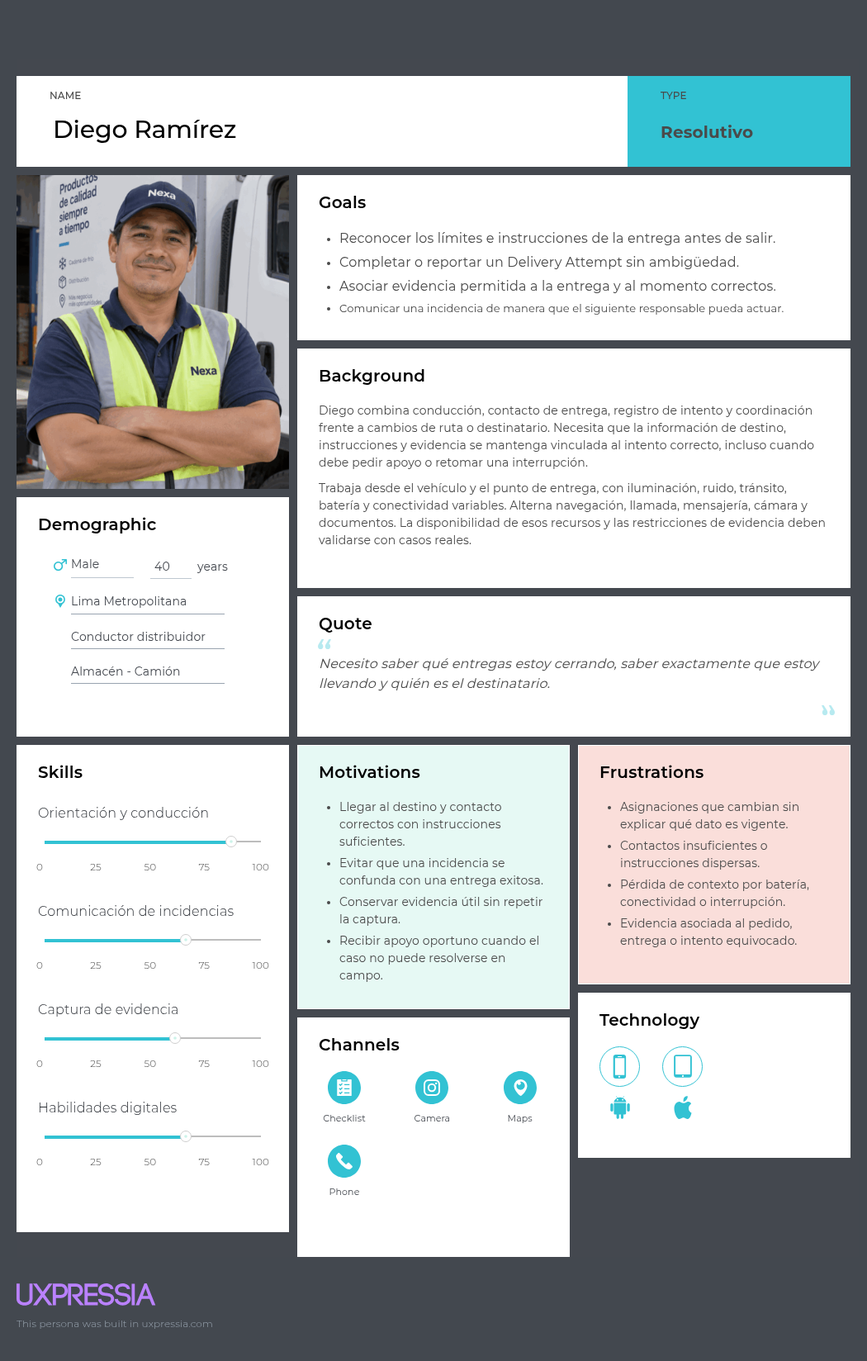
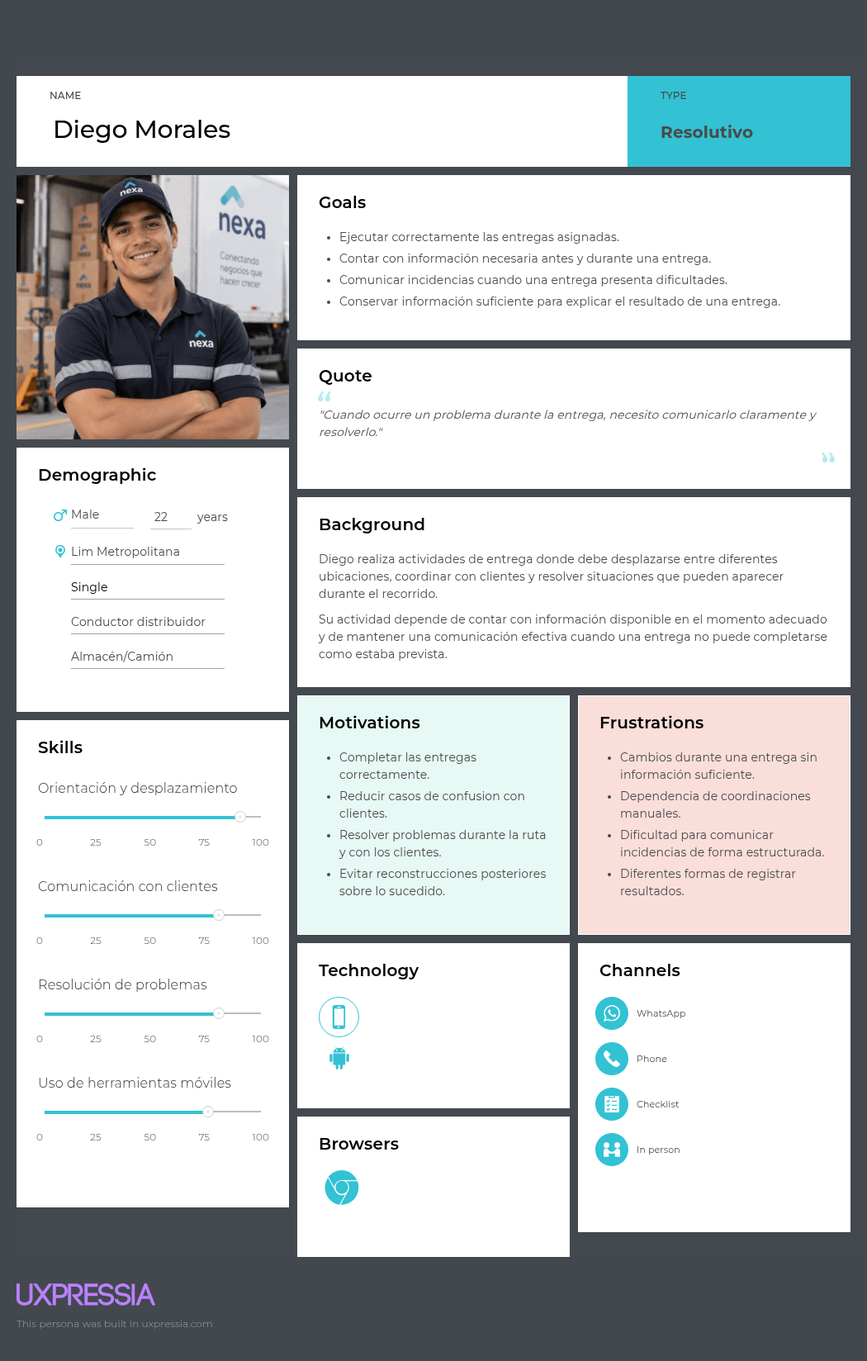
docs(ch-02): integrate updated needfinding artifacts

diff --git a/report/02-requirements-and-software-solution-design/2.3-needfinding/2.3.1-user-personas.md b/report/02-requirements-and-software-solution-design/2.3-needfinding/2.3.1-user-personas.md
@@ -1,104 +1,73 @@
 ## 2.3. Needfinding
 
+La construcción de este bloque parte de tres insumos previos. El primero es el análisis de entrevistas de la sección 2.2, que identifica patrones de comportamiento, fricciones recurrentes y expectativas de adopción. El segundo es el análisis competitivo de la sección 2.1, que muestra que las soluciones existentes resuelven fragmentos del problema, pero no articulan con suficiente claridad la continuidad entre captura comercial, abastecimiento del cliente y cierre de entrega. El tercero es la lógica del dominio modelada en el proyecto, donde cada segmento interviene en un momento distinto del flujo.
+
+Los artefactos de needfinding traducen evidencia cualitativa en criterios de diseño: quién necesita autonomía, quién necesita visibilidad, quién necesita rapidez, quién necesita trazabilidad y en qué punto del recorrido cada necesidad se vuelve más sensible.
+
 ### 2.3.1. User Personas
 
-Las tres User Personas son arquetipos sintéticos informados por patrones
-recurrentes del Interview Analysis (2.2.3) y por el contexto competitivo de
-2.1. No representan entrevistados, promedios estadísticos, perfiles de
-autorización ni entidades de dominio. Su función es mantener visibles las
-necesidades y condiciones de trabajo de los segmentos sin convertirlas en una
-validación de solución.
+Las tres User Personas presentadas en esta sección fueron elaboradas a partir de los patrones identificados en el análisis de entrevistas. Su construcción busca representar comportamientos, objetivos, motivaciones, frustraciones y condiciones de uso relevantes para el diseño de Nexa Mobile sin convertir características particulares de un entrevistado en propiedades generales del segmento. Los nombres y perfiles utilizados son ficticios y funcionan como **arquetipos de diseño**; no representan participantes reales ni promedios estadísticos de la muestra.
 
-*Nota de procedencia.* Los PNG exportados desde UXPressia conservan etiquetas e
-identidades sintéticas. La interpretación conductual presentada en esta sección
-sigue el *Needfinding* cerrado y no atribuye sus datos visuales a participantes
-reales.
+#### Alejandro Vargas — Warehouse & Dispatch Operations
 
-#### Mariela Torres — Síntesis de Warehouse & Dispatch Operations
+**Nombre:** Alejandro Vargas
 
-**Segmento y fuente.** Mariela sintetiza `MOB-SEG-01` a partir de
-`INT-S1-01`, `INT-S1-02` y `INT-S1-03`. Dos casos corresponden a trabajo
-Warehouse y uno a coordinación de almacén y despacho.
+**Segmento:** `MOB-SEG-01 — Warehouse & Dispatch Operations`
 
-**Comportamientos y tareas.** La síntesis prioriza verificar producto e
-información antes de continuar, consultar una herramienta empresarial, preparar
-el pedido, resolver una excepción y transferir responsabilidad. WhatsApp aparece
-como canal de coordinación; los registros, hojas de cálculo y controles físicos
-varían según el caso.
+Este segmento esta compuesto por personas que participan en recepción, preparación, readiness y salida física del pedido. La muestra correspondiente reúne dos casos principalmente asociados con trabajo de `Warehouse Operator` y uno con coordinación de almacén y despacho, por lo que la persona se centra en el trabajo operativo de almacén sin eliminar las diferencias de responsabilidad que corresponden al `Dispatch Coordinator`.
 
-**Necesidades y pains.** Necesita conservar contexto suficiente entre
-verificación, preparación y transferencia, sin duplicar consultas o registros.
-Las fricciones recurrentes incluyen información fragmentada, flexibilidad
-limitada ante excepciones y, en parte de la muestra, restricciones físicas para
-consultar o registrar datos.
+La construcción de Alejandro prioriza la exactitud antes de continuar con una actividad física. En la muestra se repiten la verificación de producto e información, el uso de herramientas empresariales y la coordinación mediante WhatsApp. También aparecen la resolución de excepciones y la necesidad de conservar contexto cuando el pedido pasa hacia la siguiente actividad. Entre las principales fricciones se encuentran la información fragmentada o duplicada, las verificaciones repetidas, la limitada flexibilidad ante ciertas excepciones y las condiciones físicas que pueden dificultar la consulta o el registro mientras se manipula mercadería.
 
-**Límite y frontera.** Mariela no equivale a una persona entrevistada ni fusiona
-`Warehouse Operator` con `Dispatch Coordinator`. La evidencia de transferencia
-no es homogénea y las tareas de cada actor permanecen separadas.
+*Ficha de User Persona 1 — Alejandro Vargas, Warehouse & Dispatch Operations*
 
 ![User Persona 1](../../assets/chapter-2/needfinding/user-persona-1.png)
 
-*Nota.* La Persona interpreta patrones de verificación, preparación, excepción y
-transferencia del segmento; no establece una frecuencia operativa general ni una
-solución Mobile validada.
+*Nota.* Ficha de User Persona 1 elaborada a partir de los patrones identificados en las muestras y representada mediante UXPressia. Elaboración propia.
 
-#### Diego Ramírez — Síntesis de Driver Delivery Execution
+La ficha representa a un usuario que combina consulta de información digital con trabajo físico y que necesita reducir la posibilidad de continuar con datos incompletos o inconsistentes. El arquetipo no supone que todos los trabajadores del segmento utilicen el mismo procedimiento, dispositivo o mecanismo de evidencia. Asimismo, `Warehouse Operator` y `Dispatch Coordinator` mantienen responsabilidades diferenciadas cuando una tarea depende específicamente de la preparación o de la transferencia de responsabilidad.
 
-**Segmento y fuente.** Diego sintetiza `MOB-SEG-02` a partir de `INT-S2-01`,
-`INT-S2-02` y `INT-S2-03`.
+#### Diego Morales — Driver Delivery Execution
 
-**Comportamientos y tareas.** La síntesis recoge verificación previa, ejecución
-de la entrega asignada, comunicación o escalamiento de incidencias y conservación
-de algún mecanismo de evidencia del resultado. Fotografías y códigos de
-verificación aparecen como mecanismos distintos según la operación.
+**Nombre:** Diego Morales
 
-**Necesidades y pains.** Necesita reconocer el contexto de entrega, reaccionar
-ante una incidencia y distinguir evidencia, resultado y comunicación asociados
-al intento correcto. Batería, señal, sobrecalentamiento, clima y seguridad física
-condicionan el uso del teléfono; no se asume disponibilidad continua del
-dispositivo.
+**Segmento:** `MOB-SEG-02 — Driver Delivery Execution`
 
-**Límite y frontera.** Diego representa un Driver / Delivery Operator, no una
-autoridad de recepción. Su resultado permanece separado de Buyer Receipt y la
-evidencia no se reduce a fotografía como formato universal.
+Este segmento esta conformado por personas responsables de ejecutar entregas asignadas y registrar lo ocurrido durante cada `Delivery Attempt`. La persona recoge patrones de las tres entrevistas realizadas a trabajadores que ejecutan entregas en campo y que, aunque operan bajo modalidades diferentes, comparten necesidades relacionadas con preparación, comunicación, resolución de incidencias y uso del teléfono durante la ruta.
+
+La construcción de Diego refleja un contexto donde el usuario debe revisar la entrega asignada, desplazarse hasta el punto correspondiente, reaccionar ante problemas y comunicar lo ocurrido cuando una entrega no puede completarse según lo previsto. La muestra también evidencia que existe algún mecanismo para dejar constancia del resultado, aunque este no es homogéneo entre operaciones. Las restricciones de batería, señal, conectividad, condiciones ambientales y seguridad física forman parte del contexto móvil y pueden afectar la disponibilidad del dispositivo durante el trabajo.
+
+*Ficha de User Persona 2 — Diego Morales, Driver Delivery Execution*
 
 ![User Persona 2](../../assets/chapter-2/needfinding/user-persona-2.png)
 
-*Nota.* La Persona resume condiciones móviles, comunicación y resolución de
-incidencias observadas en la muestra; no acredita tracking continuo ni valida
-una feature de Delivery.
+*Nota.* Ficha de User Persona 2 elaborada a partir de los patrones identificados en las muestras y representada mediante UXPressia. Elaboración propia.
 
-#### Carlos Mendoza — Síntesis de B2B Buyers
+La ficha representa a un usuario orientado a completar la entrega, adaptarse a las condiciones de la ruta y resolver incidencias mediante comunicación o escalamiento cuando corresponde. El arquetipo no establece tracking continuo, disponibilidad permanente de conexión ni un formato universal de evidencia. Además, el resultado registrado por el `Driver / Delivery Operator` permanece diferenciado de la recepción o discrepancia comunicada posteriormente por el comprador.
 
-**Segmento y fuente.** Carlos sintetiza `MOB-SEG-03` a partir de `INT-S3-01`,
-`INT-S3-02` y `INT-S3-03`.
+#### Carlos Mendoza — B2B Buyers
 
-**Comportamientos y tareas.** La síntesis centra reabastecimiento, continuidad
-de suministro, puntualidad, coordinación con proveedores y protección de la
-disponibilidad para clientes propios. También incorpora seguimiento de llegada,
-recepción o coordinación de recepción y resolución de incidencias cuando
-corresponde.
+**Nombre:** Carlos Mendoza
 
-**Necesidades y pains.** Necesita anticipar faltantes, conocer cambios que
-afectan una compra o llegada y contar con respuesta verificable ante demoras,
-faltantes, daños o incumplimientos. La recepción física detallada es un
-subescenario importante, pero la evidencia más profunda de ese recorrido se
-concentra en un caso y no representa todo el segmento.
+**Segmento:** `MOB-SEG-03 — B2B Buyers`
 
-**Límite y frontera.** Carlos representa un Customer Buyer sintético. Buyer
-Receipt expresa su perspectiva sobre lo recibido y no sobrescribe Driver Outcome
-ni otros hechos de negocio.
+Este segmento esta formado por compradores empresariales que protegen la continuidad de su abastecimiento, coordinan con proveedores y reciben o verifican entregas cuando corresponde. La persona se construye principalmente alrededor de la continuidad comercial, evitando reducir el rol del `Customer Buyer` a la recepción física de mercadería.
+
+La muestra evidencia como preocupaciones recurrentes la puntualidad, la prevención de quiebres de existencias y la capacidad de resolver excepciones mediante una relación confiable con el proveedor. Carlos representa a un comprador que necesita identificar necesidades de reabastecimiento, coordinar pedidos, conocer cambios relevantes y realizar seguimiento a la llegada para proteger la disponibilidad destinada a sus propios clientes. Las demoras, incumplimientos, faltantes, daños y la coordinación manual aparecen como fricciones relevantes. La recepción física detallada se conserva como un escenario aplicable cuando corresponde, pero no se generaliza como comportamiento universal del segmento.
+
+*Ficha de User Persona 3 — Carlos Mendoza, B2B Buyers*
 
 ![User Persona 3](../../assets/chapter-2/needfinding/user-persona-3.png)
 
-*Nota.* La Persona articula la continuidad comercial del Buyer con recepción y
-discrepancia cuando aplican; no convierte canales, edad o herramientas de la
-muestra en requisitos de diseño.
+*Nota.* Ficha de User Persona 3 elaborada a partir de los patrones identificados en las muestras y representada mediante UXPressia. Elaboración propia.
+
+La ficha representa a un comprador cuya prioridad es mantener la continuidad del abastecimiento y responder oportunamente ante cambios que puedan afectar su operación comercial. El uso de dispositivos y canales digitales observado en la muestra aporta contexto para comprender sus actividades, pero no convierte una aplicación, navegador, medio de pago o canal específico en un requisito universal. De la misma manera, `Buyer Receipt` expresa la perspectiva del comprador sobre lo recibido y permanece separado del resultado declarado por el `Driver / Delivery Operator`.
 
 #### Uso y estado metodológico
 
-Mariela Torres, Diego Ramírez y Carlos Mendoza organizan la interpretación de
-la User Task Matrix, los User Journey Maps, los Empathy Maps y el Impact
-Mapping. Las Personas aportan una síntesis de problema y tarea actual; la
-validación de efectos, outcomes y capacidades propuestas permanece en etapas de
-solution validation.
+Las User Personas funcionan como una síntesis de la evidencia obtenida durante las entrevistas y proporcionan una referencia común para los siguientes artefactos de *Needfinding*. Alejandro Vargas concentra los patrones asociados con verificación, preparación, excepciones y continuidad hacia la salida del pedido; Diego Morales concentra las condiciones móviles, la ejecución del intento de entrega, la comunicación de incidencias y la conservación de evidencia; y Carlos Mendoza concentra el reabastecimiento, la coordinación con proveedores, la puntualidad y la continuidad comercial.
+
+Las características incluidas deben interpretarse dentro de los límites de la muestra realizada. La cobertura de tres entrevistas por segmento permite identificar recurrencias útiles para el proceso de diseño, pero no permite afirmar frecuencias poblacionales ni convertir una característica observada en una regla aplicable a todos los usuarios potenciales de Nexa. Por esta razón, los perfiles demográficos, nombres y demás elementos utilizados para dar coherencia visual a las fichas se emplean como recursos de representación y no como identidades de participantes reales.
+
+Asimismo, las personas mantienen las fronteras de responsabilidad definidas para los segmentos objetivo. `Warehouse Operator` y `Dispatch Coordinator` pueden participar en momentos relacionados del flujo físico, pero no constituyen un único rol; `Driver / Delivery Operator` registra el resultado de su intento de entrega sin asumir la perspectiva de recepción del comprador; y `Customer Buyer` protege el abastecimiento y puede comunicar recepción o discrepancia cuando corresponda sin apropiarse de los hechos operativos del Driver. Esta separación permite que los artefactos posteriores conserven el contexto de cada actor sin fusionar responsabilidades diferentes.
+
+Finalmente, las User Personas representan la situación investigada y sirven como insumo para la elaboración de User Task Matrix, User Journey Maps, Empathy Maps e Impact Mapping. Su propósito es mantener visibles los problemas, tareas, necesidades y condiciones actuales de los usuarios durante el diseño. Por tanto, ninguna característica de las fichas debe interpretarse por sí sola como validación de una solución, aceptación de una funcionalidad o evidencia de que una capacidad futura de Nexa Mobile ya resuelve los problemas observados.

diff --git a/report/02-requirements-and-software-solution-design/2.3-needfinding/2.3.2-user-task-matrix.md b/report/02-requirements-and-software-solution-design/2.3-needfinding/2.3.2-user-task-matrix.md
@@ -1,9 +1,8 @@
 ### 2.3.2. User Task Matrix
 
-La matriz ordena tareas del mundo real descritas en el *Needfinding*, antes de
-proponer una interfaz o un flujo de Nexa. Las valoraciones reflejan centralidad
-dentro de los recorridos relatados; no convierten una recurrencia de la muestra
-en frecuencia operativa general.
+La User Task Matrix concentra las tareas que realizan las tres User Personas paraalcanzar sus objetivos en la situación actual, independientemente de que Nexa Mobile exista o de la forma en que una futura solución pueda apoyarlas. Se consideran **Alejandro Vargas**, representante de `MOB-SEG-01 — Warehouse & Dispatch Operations`; **Diego Morales**, representante de `MOB-SEG-02 — Driver Delivery Execution`; y **Carlos Mendoza**, representante de `MOB-SEG-03 — B2B Buyers`.
+
+Las tareas se derivan de los patrones identificados en las entrevistas y sintetizados en las User Personas. Por ello, describen actividades del usuario —por ejemplo, verificar mercadería, coordinar una entrega o identificar una necesidad de reabastecimiento— y no opciones de interfaz, funcionalidades de software ni mecanismos específicos de Nexa.
 
 *Escala de frecuencia e importancia para los recorridos As-Is*
 
@@ -14,34 +13,32 @@ en frecuencia operativa general.
 | Baja | Responsabilidad real de baja frecuencia o centrada en excepciones. | Es útil resolverla, pero no define por sí sola el flujo principal. |
 | No aplica | No forma parte de la responsabilidad de la Persona. | No forma parte de la responsabilidad de la Persona. |
 
-*Matriz de tareas del mundo real por Persona*
+### User Task Matrix
+*User Task Matrix de las User Personas de Nexa Mobile*
+| Tarea realizada por el usuario | Alejandro Vargas — Frecuencia | Alejandro Vargas — Importancia | Diego Morales — Frecuencia | Diego Morales — Importancia | Carlos Mendoza — Frecuencia | Carlos Mendoza — Importancia |
+| :--- | :---: | :---: | :---: | :---: | :---: | :---: |
+| Reunir y revisar la información necesaria para iniciar o continuar su actividad | Alta | Alta | Alta | Alta | Alta | Alta |
+| Verificar que la mercadería y la información coincidan con lo esperado —producto, cantidad, condición y, cuando corresponda, lote o vencimiento— | Alta | Alta | Alta | Alta | Media | Alta |
+| Preparar y dejar el pedido listo para continuar hacia la siguiente actividad operativa | Alta | Alta | No aplica | No aplica | No aplica | No aplica |
+| Coordinar la transferencia o salida del pedido con el siguiente responsable del proceso | Alta | Alta | No aplica | No aplica | No aplica | No aplica |
+| Revisar la entrega asignada y desplazarse hacia el destino correspondiente | No aplica | No aplica | Alta | Alta | No aplica | No aplica |
+| Coordinar con otra persona involucrada —compañero, cliente, proveedor, vendedor, soporte o responsable operativo— para mantener la continuidad del trabajo | Alta | Alta | Alta | Alta | Alta | Alta |
+| Resolver o escalar una incidencia, como faltantes, daños, diferencias, dirección incorrecta, ausencia, rechazo o retraso | Media | Alta | Media | Alta | Media | Alta |
+| Conservar un registro o evidencia suficiente para explicar el cambio de responsabilidad o el resultado de la actividad | Media | Alta | Alta | Alta | Media | Alta |
+| Identificar una necesidad de reabastecimiento antes de que la falta de producto afecte la operación | No aplica | No aplica | No aplica | No aplica | Alta | Alta |
+| Coordinar o realizar un pedido con un proveedor de acuerdo con la necesidad de abastecimiento | No aplica | No aplica | No aplica | No aplica | Alta | Alta |
+| Dar seguimiento a la llegada y puntualidad de un pedido para anticipar su impacto en la operación | No aplica | No aplica | No aplica | No aplica | Alta | Alta |
+| Recibir o coordinar la recepción de un pedido y comunicar diferencias entre lo esperado y lo recibido cuando corresponda | No aplica | No aplica | No aplica | No aplica | Media | Alta |
 
-| Tarea del mundo real | Mariela: Frecuencia | Mariela: Importancia | Diego: Frecuencia | Diego: Importancia | Carlos: Frecuencia | Carlos: Importancia | Fundamento en Needfinding |
-| --- | --- | --- | --- | --- | --- | --- | --- |
-| Reconocer el pedido, entrega o trabajo actual | Alta | Alta | Alta | Alta | Alta | Alta | Cada segmento necesita identificar su contexto antes de continuar. |
-| Consultar información relevante para continuar | Alta | Alta | Alta | Alta | Alta | Alta | Herramientas empresariales, aplicaciones, registros o canales directos apoyan el trabajo según el segmento. |
-| Verificar producto, cantidad, condición o información antes de continuar | Alta | Alta | Media | Alta | Media | Alta | La comprobación física es central en Warehouse; Driver verifica antes de la ruta y Buyer la realiza o coordina cuando corresponde. |
-| Preparar trabajo Warehouse y confirmar readiness o handoff | Alta | Alta | No aplica | No aplica | No aplica | No aplica | Preparación y transferencia pertenecen a Warehouse & Dispatch Operations. |
-| Ejecutar un Delivery Attempt y registrar su resultado | No aplica | No aplica | Alta | Alta | No aplica | No aplica | La ejecución de entrega es responsabilidad de Driver / Delivery Operator. |
-| Coordinar o escalar una excepción | Media | Alta | Alta | Alta | Alta | Alta | Faltantes, daños, direcciones, demoras o incumplimientos requieren coordinación con otra persona. |
-| Asociar o revisar evidencia, registro o documento del hecho | Media | Alta | Alta | Alta | Media | Alta | El mecanismo varía: registro de operación, fotografía, código, boleta o documentación de apoyo. |
-| Consultar estado de salida, ruta, llegada o pedido | Media | Media | Media | Media | Alta | Alta | Para Buyer, la llegada y puntualidad protegen abastecimiento; en operación y ruta depende del caso. |
-| Identificar una necesidad de reabastecimiento y preparar o repetir una compra | No aplica | No aplica | No aplica | No aplica | Alta | Alta | La continuidad de suministro y la prevención de quiebres organizan el recorrido Buyer. |
-| Recibir o coordinar una entrega como Buyer y comunicar una discrepancia al proveedor | No aplica | No aplica | No aplica | No aplica | Media | Alta | Es un subescenario Buyer real, con mayor evidencia detallada en una entrevista. |
-| Retomar trabajo después de una interrupción | Media | Alta | Alta | Alta | Media | Media | Interrupciones físicas, de comunicación, disponibilidad o atención afectan los tres recorridos de modo distinto. |
+*Nota.* Las valoraciones representan la centralidad cualitativa de cada tarea dentro de los recorridos investigados y no porcentajes poblacionales ni frecuencias medidas por unidad de tiempo. La categoría “No aplica” evita atribuir a una Persona tareas que pertenecen a otra responsabilidad. En particular, la matriz no convierte la preparación de almacén, el resultado del `Driver / Delivery Operator` y la recepción o discrepancia del `Customer Buyer` en una única responsabilidad. Elaboración propia.
 
-*Nota.* Mariela, Diego y Carlos son arquetipos sintéticos. La matriz interpreta
-la evidencia de campo y no prueba que una capacidad esté implementada o produzca
-un outcome.
+La matriz muestra tres núcleos de actividad claramente diferenciados. Para **Alejandro Vargas**, las tareas de mayor frecuencia e importancia son revisar información, verificar mercadería, preparar el pedido y asegurar que pueda continuar hacia la siguiente actividad sin diferencias pendientes. Esta lectura coincide con el patrón recurrente de verificación antes de continuar observado en el segmento. La gestión de incidencias mantiene importancia alta, pero se clasifica con frecuencia media porque aparece cuando el flujo normal presenta faltantes, daños, inconsistencias u otras excepciones. Del mismo modo, conservar evidencia de la transferencia es importante, pero su frecuencia se mantiene en nivel medio porque las entrevistas muestran mecanismos distintos y no homogéneos para dejar constancia del cambio de responsabilidad.
 
-La mayor centralidad se concentra en verificación, preparación y transferencia
-para Mariela; en Delivery Attempt, incidencias y evidencia para Diego; y en
-reabastecimiento, coordinación y puntualidad para Carlos. La recepción y la
-discrepancia permanecen relevantes para Buyer, pero no agotan su continuidad
-comercial.
+Para **Diego Morales**, el recorrido se concentra en revisar la entrega, verificar su condición, desplazarse al destino, coordinar con las personas involucradas y dejar constancia del resultado. La evidencia de entrega o intento recibe frecuencia e importancia altas porque los tres casos del segmento describen algún mecanismo para respaldar el resultado, aunque la forma concreta varía entre fotografías, códigos u otros controles. Las incidencias se mantienen con frecuencia media e importancia alta: no constituyen el objetivo normal de una entrega, pero cuando ocurren pueden detener la ruta, requerir intervención de otra persona o terminar en rechazo o retorno del producto.
 
-Las diferencias principales son de responsabilidad: Warehouse no ejecuta la
-entrega, Driver no decide el reabastecimiento y Buyer no realiza el handoff de
-almacén. Los tres recorridos comparten la necesidad de información suficiente,
-verificación y coordinación ante excepciones, sin convertir esas tareas en una
-misma autoridad de dominio.
+Para **Carlos Mendoza**, las tareas centrales son identificar oportunamente una necesidad de reabastecimiento, coordinar el pedido con el proveedor y dar seguimiento a su llegada para proteger la continuidad comercial. La comunicación con el proveedor
+es también una actividad de alta frecuencia e importancia, especialmente ante urgencias o cambios. La recepción física detallada se mantiene con frecuencia media e importancia alta: forma parte del contexto del segmento cuando corresponde, pero la evidencia previa no permite presentarla como una actividad igualmente detallada para todos los compradores entrevistados. Esta distinción evita reducir al `Customer Buyer` a la sola recepción de mercadería.
+
+Como coincidencia, los tres arquetipos necesitan **información suficiente para actuar, verificación y coordinación con otras personas**. También comparten la necesidad de resolver excepciones, aunque estas aparecen en momentos y bajo responsabilidades diferentes. La diferencia principal se encuentra en el propósito de esas tareas: Alejandro protege la exactitud antes de que el pedido continúe en la operación física; Diego protege la ejecución y explicación del resultado de la entrega; y Carlos protege la continuidad del abastecimiento de su negocio.
+
+Estas diferencias son relevantes para los siguientes artefactos de *Needfinding*, pues permiten mantener separados los objetivos y responsabilidades de cada Persona. La matriz, por tanto, funciona como una síntesis de tareas del mundo real y no como una lista anticipada de funcionalidades de Nexa Mobile.

diff --git a/report/02-requirements-and-software-solution-design/2.3-needfinding/2.3.3-user-journey-mapping.md b/report/02-requirements-and-software-solution-design/2.3-needfinding/2.3.3-user-journey-mapping.md
@@ -1,53 +1,42 @@
 ### 2.3.3. User Journey Mapping
 
-Los Journey Maps describen la experiencia **As-Is** sin Nexa. Sintetizan
-patrones recurrentes de investigación y no son transcripciones, diseños de
-interfaz ni validación de una solución. Los PNG de UXPressia se conservan como
-artefactos visuales; esta interpretación canónica delimita el recorrido que
-representan.
+El User Journey Mapping permite representar la experiencia de cada segmento objetivo durante la ejecución de actividades relacionadas con su contexto operativo. A partir de la información obtenida durante las entrevistas y la definición de User Personas, se identifican las etapas principales del recorrido, las acciones realizadas, pensamientos, puntos de dolor, emociones experimentadas y oportunidades de mejora.
 
-#### Mariela Torres — Warehouse & Dispatch Operations
+Los siguientes Journey Maps representan el estado actual de los usuarios antes de considerar la incorporación de una solución digital. Por ello, describen las actividades, dificultades y necesidades presentes en sus procesos habituales de trabajo.
 
-*As-Is Journey Map de Mariela Torres: preparación, verificación, excepción y transferencia de responsabilidad*
+---
 
-El recorrido parte de una recepción o tarea de preparación, continúa con consulta
-de información empresarial y comprobación física, y avanza mediante preparación
-y re-verificación. Cuando aparece una diferencia, se detiene, separa o escala
-antes de la transferencia. El Journey Map conserva que Warehouse y Dispatch
-tienen responsabilidades diferenciadas y que la evidencia de handoff no es
-homogénea.
+#### Alejandro — Warehouse & Dispatch Operations
 
-![Journey Map 1](../../assets/chapter-2/needfinding/journey-map-1.png)
+Alejandro participa en actividades de recepción, preparación, verificación y coordinación de salida de pedidos. Su recorrido depende de que la información comercial y operativa coincida con las condiciones físicas del almacén y del pedido preparado.
 
-*Nota.* Síntesis As-Is basada en `INT-S1-01`, `INT-S1-02` y `INT-S1-03`; no
-describe funciones de Nexa ni asume que todos los handoffs usan el mismo registro.
+*Warehouse & Dispatch Operations Journey Map*
+![Journey Map 1](../../assets/chapter-2/needfinding/user-journey-map-1.png)
+*Nota.* Journey Map elaborado a partir de la información recopilada durante las entrevistas realizadas a trabajadores involucrados en actividades de almacén y despacho, complementada con la definición del User Persona Alejandro. Representa el recorrido actual (*as-is*) durante la preparación y coordinación de pedidos antes de considerar una solución digital. Elaboración propia.
 
-#### Diego Ramírez — Driver Delivery Execution
 
-*As-Is Journey Map de Diego Ramírez: entrega asignada, intento, incidencia, evidencia y cierre*
+#### Diego — Driver Delivery Execution
 
-El recorrido parte de una entrega asignada y su verificación, continúa con ruta y
-Delivery Attempt, y contempla una incidencia con comunicación o escalamiento.
-El resultado se respalda mediante un mecanismo de evidencia que cambia por
-operación y puede continuar, retornar o cerrar según el caso. Las restricciones
-móviles forman parte del contexto, no de una funcionalidad propuesta.
+Diego realiza actividades de entrega donde debe trasladarse hacia diferentes destinos, coordinar con clientes y resolver situaciones inesperadas durante la ruta. Su experiencia depende de disponer de información suficiente para ejecutar la entrega y explicar el resultado obtenido.
 
-![Journey Map 2](../../assets/chapter-2/needfinding/journey-map-2.png)
+*Driver Delivery Execution Journey Map*
+![Journey Map 2](../../assets/chapter-2/needfinding/user-journey-map-2.png)
+*Nota.* Journey Map elaborado a partir de la información recopilada durante las entrevistas realizadas a repartidores encargados de la entrega final y la definición del User Persona Diego. Representa el recorrido actual (*as-is*) durante la ejecución de entregas, coordinación con receptores y resolución de incidencias. Elaboración propia.
 
-*Nota.* Síntesis As-Is basada en `INT-S2-01`, `INT-S2-02` y `INT-S2-03`; Driver
-Outcome no equivale a Buyer Receipt ni implica tracking continuo.
+#### Carlos — B2B Buyers
 
-#### Carlos Mendoza — B2B Buyers
+Carlos participa en procesos comerciales B2B donde necesita mantener continuidad en el abastecimiento, coordinar pedidos con proveedores y conocer el avance de sus solicitudes para tomar decisiones oportunas.
 
-*As-Is Journey Map de Carlos Mendoza: reabastecimiento, coordinación y continuidad comercial*
+*B2B Buyers Journey Map*
+![Journey Map 3](../../assets/chapter-2/needfinding/user-journey-map-3.png)
+*Nota.* Journey Map elaborado a partir de la información recopilada durante las entrevistas realizadas a compradores B2B y la definición del User Persona Carlos. Representa el recorrido actual (*as-is*) relacionado con abastecimiento, coordinación con proveedores y seguimiento de pedidos. Elaboración propia.
 
-El recorrido parte de demanda o disponibilidad, identifica una necesidad de
-reabastecimiento y coordina compra o pedido con el proveedor. Continúa con
-seguimiento de llegada y protección de la disponibilidad para clientes propios;
-incluye recepción, verificación o excepción cuando el caso lo requiere. El foco
-no se reduce a receipt/discrepancy, aunque ese subescenario se conserva.
+#### Análisis general de los User Journey Maps
 
-![Journey Map 3](../../assets/chapter-2/needfinding/journey-map-3.png)
+Los tres recorridos muestran una necesidad común relacionada con la continuidad de información durante el ciclo del pedido. Aunque cada segmento participa en momentos diferentes del proceso, todos requieren conocer qué ocurrió previamente para poder ejecutar correctamente su siguiente actividad.
 
-*Nota.* Síntesis As-Is basada en `INT-S3-01`, `INT-S3-02` y `INT-S3-03`; los
-canales y profundidad de recepción varían dentro de la muestra.
+En el caso de Alejandro, la principal necesidad se relaciona con mantener consistencia entre la información registrada y las condiciones físicas del pedido. Diego requiere información suficiente durante la ejecución de la entrega y mecanismos claros para comunicar resultados o incidencias. Carlos necesita visibilidad sobre el avance de sus pedidos para mantener la continuidad de su operación comercial.
+
+Las diferencias entre segmentos se encuentran principalmente en el tipo de decisión que toman. Mientras Alejandro toma decisiones operativas dentro del almacén, Diego resuelve situaciones durante una actividad física en movimiento y Carlos toma decisiones comerciales relacionadas con abastecimiento y seguimiento.
+
+En conjunto, los Journey Maps evidencian oportunidades relacionadas con mejorar la disponibilidad de contexto, reducir coordinaciones manuales y conservar información del recorrido del pedido para los participantes involucrados.
